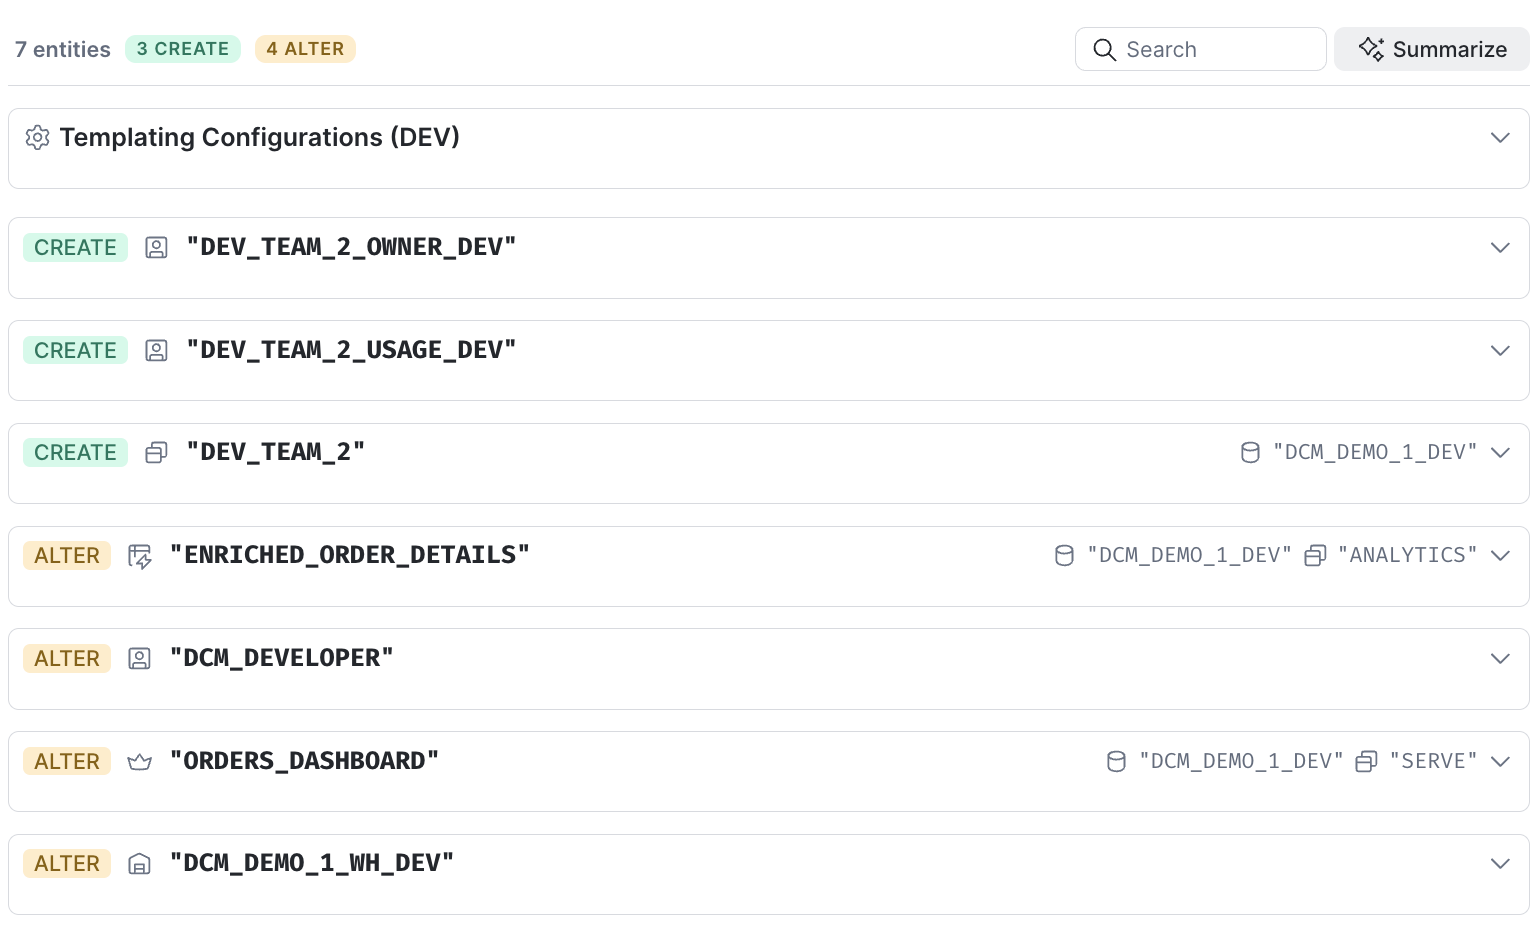
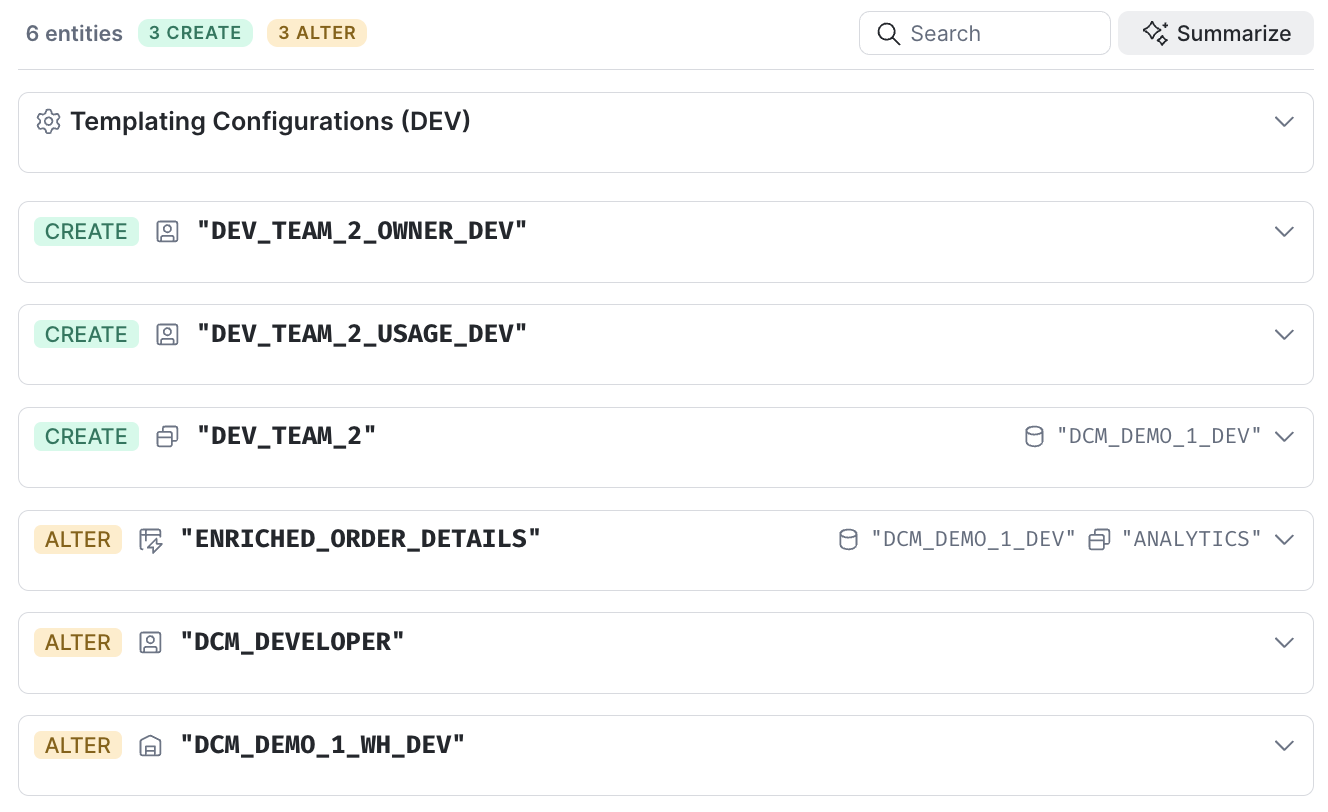
Cover the GRANT verb, trim ATTACH, wire the dashboard screenshot
Renames the ATTACH step to cover all three verbs a project uses: DEFINE
declares objects, ATTACH connects them, GRANT authorises roles. GRANT was
previously unexplained even though definition files use it. Drops the list of
ATTACH statement types, which would need maintaining as the set grows, and
cuts the Streamlit runtime note.

Adds the deployed dashboard screenshot and replaces the change-and-redeploy
plan screenshot, which now shows 6 entities with no Streamlit alter.

diff --git a/site/sfguides/src/get-started-snowflake-dcm-projects/get-started-snowflake-dcm-projects.md b/site/sfguides/src/get-started-snowflake-dcm-projects/get-started-snowflake-dcm-projects.md
@@ -461,11 +461,11 @@ Harmless here, because `env_suffix` always has a value. It stops being harmless 
 So: the "comment out the alternative" pattern is safe in plain SQL and a trap in templated SQL. And `out/rendered/` is the first place to look whenever a template surprises you — it is the exact SQL DCM evaluated.
 
 <!-- ------------------------ -->
-## Connecting Entities with ATTACH
+## Beyond DEFINE: ATTACH and GRANT
 
-`DEFINE` declares an object. `ATTACH` connects two of them. It is the second verb in a project, and it exists because some relationships are not properties of either object — they are a link between them.
+`DEFINE` declares objects, and most of a project is `DEFINE`. Two other verbs do the rest.
 
-`sources/definitions/access.sql` declares a tag, then attaches it to a table:
+`ATTACH` connects two objects, because some relationships are not a property of either one — they are a link between them. `sources/definitions/access.sql` declares a tag, then attaches it to a table:
 
 ```sql
 DEFINE TAG DCM_DEMO_1{{env_suffix}}.RAW.DATA_SENSITIVITY
@@ -478,15 +478,18 @@ ATTACH TAG DCM_DEMO_1{{env_suffix}}.RAW.DATA_SENSITIVITY = 'INTERNAL'
 
 Because the link is its own statement, the two ends are independent: the tag and the table it marks need not be declared in the same file, or even in the same project.
 
-The same shape applies elsewhere:
+`GRANT` is the third verb, and it is just Snowflake's own `GRANT` — no wrapper, no new syntax. The same file gives the read role access to everything it needs:
 
-| Statement | Connects |
-|:----------|:---------|
-| `ATTACH TAG` | A tag value to an object |
-| `ATTACH MASKING POLICY` | A masking policy to one or more columns |
-| `ATTACH DATA METRIC FUNCTION` | A data quality check to a table |
+```sql
+GRANT USAGE on database DCM_DEMO_1{{env_suffix}} to role DCM_DEMO_1{{env_suffix}}_READ;
 
-Targets are narrower than you might expect — `ATTACH TAG` takes whole objects, so tables and dynamic tables are valid while views and individual columns are not.
+GRANT INHERITED SELECT on all tables in database DCM_DEMO_1{{env_suffix}}
+    to role DCM_DEMO_1{{env_suffix}}_READ;
+```
+
+The second one covers every table in the database, including tables a future deploy has not created yet — one grant rather than one per object.
+
+Grants are not entities in their own right; they belong to the role that holds them. That is why a plan reports `ALTER ROLE` rather than a list of individual grants, and why the very first deploy showed one alter on `DCM_DEVELOPER`: taking ownership of each new object is itself a grant.
 
 <!-- ------------------------ -->
 ## Seed Data and Query
@@ -540,14 +543,14 @@ DEFINE STREAMLIT DCM_DEMO_1{{env_suffix}}.SERVE.ORDERS_DASHBOARD
     COMMENT = 'Reads the ORDER_ANALYTICS semantic view; deployed from the dashboard asset';
 ```
 
-Declare the runtime rather than letting Snowflake pick one. `DEFINE` runs as `CREATE OR ALTER`, so an attribute the file leaves out is unset on the next deploy — and the app would move to a different runtime than the one it was written against.
-
 The app reads the semantic view rather than the dynamic table, so the numbers on screen are the same metric definitions an agent would resolve. One detail matters for portability — **asset files are not Jinja-rendered**, so the app cannot use `{{env_suffix}}` to find its own database. It resolves that at runtime instead, which is why the identical file serves every environment:
 
 ```python
 session = get_active_session()
 database = session.sql("SELECT CURRENT_DATABASE()").collect()[0][0]
 ```
+
+![The deployed Orders Dashboard reading the semantic view](assets/order_dashboard.png)
 
 Now the useful part. Change nothing but the Python — add a chart, rename a heading — and plan again:
 
